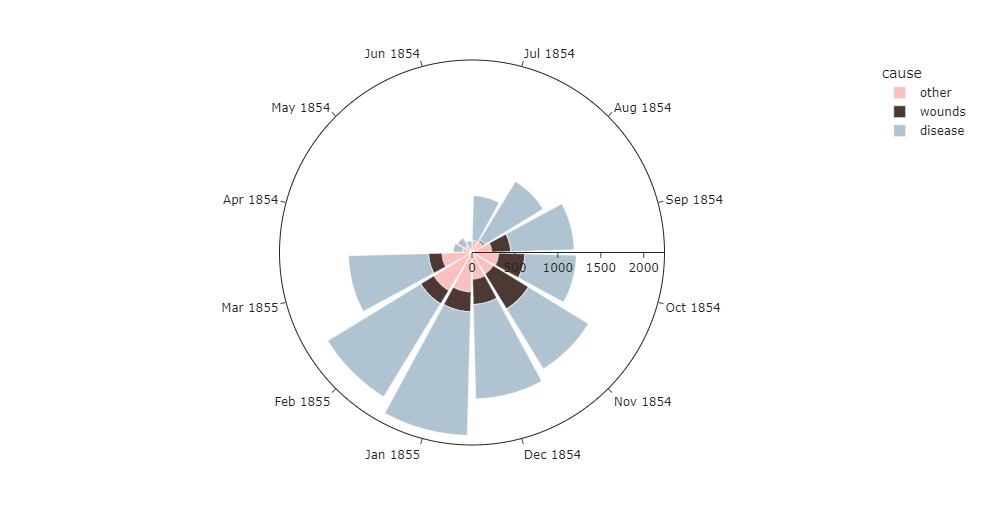
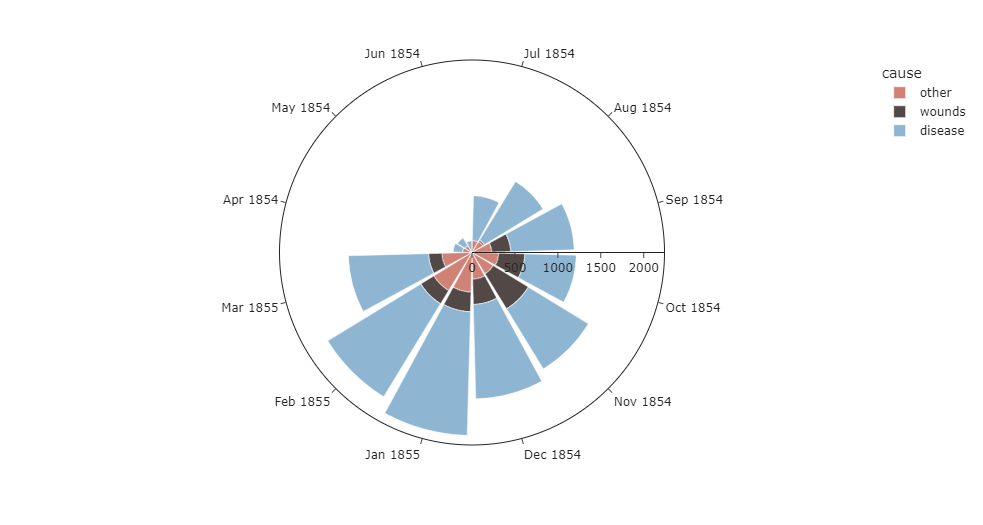
Adiciona versão final dos gráficos

Changed region(s): [[0.3357, 0.3352, 0.6104, 0.8229], [0.885, 0.1524, 0.9156, 0.1829]]

diff --git a/trabalho_2/line.html b/trabalho_2/line.html
@@ -7,11 +7,11 @@
   <script src="https://cdn.jsdelivr.net/npm/vega-embed@6"></script>
 </head>
 <body>
-<div class="vega-visualization" id="vega-visualization-3be45fe0f66b4fc5a7020cfad07e0c00"></div>
+<div class="vega-visualization" id="vega-visualization-edf4cb6f6e4c4c2fb420ed7a6b218c82"></div>
 <script type="text/javascript">
-  const spec = {"config": {"view": {"continuousWidth": 400, "continuousHeight": 300}}, "data": {"name": "data-3c35505f65207aa50905676c68c2233d"}, "mark": "line", "encoding": {"color": {"type": "nominal", "field": "cause"}, "x": {"type": "nominal", "field": "date"}, "y": {"type": "quantitative", "field": "deaths"}}, "height": 400, "title": "Gr\u00e1fico de Linha das Causas de Morte no ex\u00e9rcito do leste", "width": 800, "$schema": "https://vega.github.io/schema/vega-lite/v4.8.1.json", "datasets": {"data-3c35505f65207aa50905676c68c2233d": [{"date": "1854-04", "cause": "other", "deaths": 110}, {"date": "1854-05", "cause": "other", "deaths": 95}, {"date": "1854-06", "cause": "other", "deaths": 40}, {"date": "1854-07", "cause": "other", "deaths": 140}, {"date": "1854-08", "cause": "other", "deaths": 150}, {"date": "1854-09", "cause": "other", "deaths": 230}, {"date": "1854-10", "cause": "other", "deaths": 310}, {"date": "1854-11", "cause": "other", "deaths": 290}, {"date": "1854-12", "cause": "other", "deaths": 310}, {"date": "1855-01", "cause": "other", "deaths": 460}, {"date": "1855-02", "cause": "other", "deaths": 520}, {"date": "1855-03", "cause": "other", "deaths": 350}, {"date": "1855-04", "cause": "other", "deaths": 195}, {"date": "1855-05", "cause": "other", "deaths": 155}, {"date": "1855-06", "cause": "other", "deaths": 130}, {"date": "1855-07", "cause": "other", "deaths": 130}, {"date": "1855-08", "cause": "other", "deaths": 110}, {"date": "1855-09", "cause": "other", "deaths": 100}, {"date": "1855-10", "cause": "other", "deaths": 95}, {"date": "1855-11", "cause": "other", "deaths": 140}, {"date": "1855-12", "cause": "other", "deaths": 120}, {"date": "1856-01", "cause": "other", "deaths": 160}, {"date": "1856-02", "cause": "other", "deaths": 100}, {"date": "1856-03", "cause": "other", "deaths": 125}, {"date": "1854-04", "cause": "wounds", "deaths": 0}, {"date": "1854-05", "cause": "wounds", "deaths": 0}, {"date": "1854-06", "cause": "wounds", "deaths": 0}, {"date": "1854-07", "cause": "wounds", "deaths": 0}, {"date": "1854-08", "cause": "wounds", "deaths": 20}, {"date": "1854-09", "cause": "wounds", "deaths": 220}, {"date": "1854-10", "cause": "wounds", "deaths": 305}, {"date": "1854-11", "cause": "wounds", "deaths": 480}, {"date": "1854-12", "cause": "wounds", "deaths": 295}, {"date": "1855-01", "cause": "wounds", "deaths": 230}, {"date": "1855-02", "cause": "wounds", "deaths": 180}, {"date": "1855-03", "cause": "wounds", "deaths": 155}, {"date": "1855-04", "cause": "wounds", "deaths": 195}, {"date": "1855-05", "cause": "wounds", "deaths": 180}, {"date": "1855-06", "cause": "wounds", "deaths": 330}, {"date": "1855-07", "cause": "wounds", "deaths": 260}, {"date": "1855-08", "cause": "wounds", "deaths": 290}, {"date": "1855-09", "cause": "wounds", "deaths": 355}, {"date": "1855-10", "cause": "wounds", "deaths": 135}, {"date": "1855-11", "cause": "wounds", "deaths": 100}, {"date": "1855-12", "cause": "wounds", "deaths": 40}, {"date": "1856-01", "cause": "wounds", "deaths": 0}, {"date": "1856-02", "cause": "wounds", "deaths": 0}, {"date": "1856-03", "cause": "wounds", "deaths": 0}, {"date": "1854-04", "cause": "disease", "deaths": 110}, {"date": "1854-05", "cause": "disease", "deaths": 105}, {"date": "1854-06", "cause": "disease", "deaths": 95}, {"date": "1854-07", "cause": "disease", "deaths": 520}, {"date": "1854-08", "cause": "disease", "deaths": 800}, {"date": "1854-09", "cause": "disease", "deaths": 740}, {"date": "1854-10", "cause": "disease", "deaths": 600}, {"date": "1854-11", "cause": "disease", "deaths": 820}, {"date": "1854-12", "cause": "disease", "deaths": 1100}, {"date": "1855-01", "cause": "disease", "deaths": 1440}, {"date": "1855-02", "cause": "disease", "deaths": 1270}, {"date": "1855-03", "cause": "disease", "deaths": 935}, {"date": "1855-04", "cause": "disease", "deaths": 560}, {"date": "1855-05", "cause": "disease", "deaths": 550}, {"date": "1855-06", "cause": "disease", "deaths": 650}, {"date": "1855-07", "cause": "disease", "deaths": 430}, {"date": "1855-08", "cause": "disease", "deaths": 490}, {"date": "1855-09", "cause": "disease", "deaths": 290}, {"date": "1855-10", "cause": "disease", "deaths": 245}, {"date": "1855-11", "cause": "disease", "deaths": 325}, {"date": "1855-12", "cause": "disease", "deaths": 215}, {"date": "1856-01", "cause": "disease", "deaths": 160}, {"date": "1856-02", "cause": "disease", "deaths": 100}, {"date": "1856-03", "cause": "disease", "deaths": 90}]}};
+  const spec = {"config": {"view": {"continuousWidth": 400, "continuousHeight": 300}}, "data": {"name": "data-3c35505f65207aa50905676c68c2233d"}, "mark": "line", "encoding": {"color": {"type": "nominal", "field": "cause", "scale": {"domain": ["disease", "wounds", "other"], "range": ["#8eb5d1", "#524946", "#CF8275"]}}, "x": {"type": "nominal", "field": "date"}, "y": {"type": "quantitative", "field": "deaths"}}, "height": 400, "title": "Gr\u00e1fico de Linha das Causas de Morte no ex\u00e9rcito do leste", "width": 800, "$schema": "https://vega.github.io/schema/vega-lite/v4.8.1.json", "datasets": {"data-3c35505f65207aa50905676c68c2233d": [{"date": "1854-04", "cause": "other", "deaths": 110}, {"date": "1854-05", "cause": "other", "deaths": 95}, {"date": "1854-06", "cause": "other", "deaths": 40}, {"date": "1854-07", "cause": "other", "deaths": 140}, {"date": "1854-08", "cause": "other", "deaths": 150}, {"date": "1854-09", "cause": "other", "deaths": 230}, {"date": "1854-10", "cause": "other", "deaths": 310}, {"date": "1854-11", "cause": "other", "deaths": 290}, {"date": "1854-12", "cause": "other", "deaths": 310}, {"date": "1855-01", "cause": "other", "deaths": 460}, {"date": "1855-02", "cause": "other", "deaths": 520}, {"date": "1855-03", "cause": "other", "deaths": 350}, {"date": "1855-04", "cause": "other", "deaths": 195}, {"date": "1855-05", "cause": "other", "deaths": 155}, {"date": "1855-06", "cause": "other", "deaths": 130}, {"date": "1855-07", "cause": "other", "deaths": 130}, {"date": "1855-08", "cause": "other", "deaths": 110}, {"date": "1855-09", "cause": "other", "deaths": 100}, {"date": "1855-10", "cause": "other", "deaths": 95}, {"date": "1855-11", "cause": "other", "deaths": 140}, {"date": "1855-12", "cause": "other", "deaths": 120}, {"date": "1856-01", "cause": "other", "deaths": 160}, {"date": "1856-02", "cause": "other", "deaths": 100}, {"date": "1856-03", "cause": "other", "deaths": 125}, {"date": "1854-04", "cause": "wounds", "deaths": 0}, {"date": "1854-05", "cause": "wounds", "deaths": 0}, {"date": "1854-06", "cause": "wounds", "deaths": 0}, {"date": "1854-07", "cause": "wounds", "deaths": 0}, {"date": "1854-08", "cause": "wounds", "deaths": 20}, {"date": "1854-09", "cause": "wounds", "deaths": 220}, {"date": "1854-10", "cause": "wounds", "deaths": 305}, {"date": "1854-11", "cause": "wounds", "deaths": 480}, {"date": "1854-12", "cause": "wounds", "deaths": 295}, {"date": "1855-01", "cause": "wounds", "deaths": 230}, {"date": "1855-02", "cause": "wounds", "deaths": 180}, {"date": "1855-03", "cause": "wounds", "deaths": 155}, {"date": "1855-04", "cause": "wounds", "deaths": 195}, {"date": "1855-05", "cause": "wounds", "deaths": 180}, {"date": "1855-06", "cause": "wounds", "deaths": 330}, {"date": "1855-07", "cause": "wounds", "deaths": 260}, {"date": "1855-08", "cause": "wounds", "deaths": 290}, {"date": "1855-09", "cause": "wounds", "deaths": 355}, {"date": "1855-10", "cause": "wounds", "deaths": 135}, {"date": "1855-11", "cause": "wounds", "deaths": 100}, {"date": "1855-12", "cause": "wounds", "deaths": 40}, {"date": "1856-01", "cause": "wounds", "deaths": 0}, {"date": "1856-02", "cause": "wounds", "deaths": 0}, {"date": "1856-03", "cause": "wounds", "deaths": 0}, {"date": "1854-04", "cause": "disease", "deaths": 110}, {"date": "1854-05", "cause": "disease", "deaths": 105}, {"date": "1854-06", "cause": "disease", "deaths": 95}, {"date": "1854-07", "cause": "disease", "deaths": 520}, {"date": "1854-08", "cause": "disease", "deaths": 800}, {"date": "1854-09", "cause": "disease", "deaths": 740}, {"date": "1854-10", "cause": "disease", "deaths": 600}, {"date": "1854-11", "cause": "disease", "deaths": 820}, {"date": "1854-12", "cause": "disease", "deaths": 1100}, {"date": "1855-01", "cause": "disease", "deaths": 1440}, {"date": "1855-02", "cause": "disease", "deaths": 1270}, {"date": "1855-03", "cause": "disease", "deaths": 935}, {"date": "1855-04", "cause": "disease", "deaths": 560}, {"date": "1855-05", "cause": "disease", "deaths": 550}, {"date": "1855-06", "cause": "disease", "deaths": 650}, {"date": "1855-07", "cause": "disease", "deaths": 430}, {"date": "1855-08", "cause": "disease", "deaths": 490}, {"date": "1855-09", "cause": "disease", "deaths": 290}, {"date": "1855-10", "cause": "disease", "deaths": 245}, {"date": "1855-11", "cause": "disease", "deaths": 325}, {"date": "1855-12", "cause": "disease", "deaths": 215}, {"date": "1856-01", "cause": "disease", "deaths": 160}, {"date": "1856-02", "cause": "disease", "deaths": 100}, {"date": "1856-03", "cause": "disease", "deaths": 90}]}};
   const embedOpt = {};
-  vegaEmbed('#vega-visualization-3be45fe0f66b4fc5a7020cfad07e0c00', spec, embedOpt).catch(console.error);
+  vegaEmbed('#vega-visualization-edf4cb6f6e4c4c2fb420ed7a6b218c82', spec, embedOpt).catch(console.error);
 </script>
 </body>
 </html>

diff --git a/trabalho_2/bar2.html b/trabalho_2/bar2.html
@@ -7,11 +7,11 @@
   <script src="https://cdn.jsdelivr.net/npm/vega-embed@6"></script>
 </head>
 <body>
-<div class="vega-visualization" id="vega-visualization-96e1470db36544f4bc491340388881d6"></div>
+<div class="vega-visualization" id="vega-visualization-25783dd02baa461883bec9301b4c02af"></div>
 <script type="text/javascript">
-  const spec = {"config": {"view": {"continuousWidth": 400, "continuousHeight": 300}}, "data": {"name": "data-3c35505f65207aa50905676c68c2233d"}, "mark": "bar", "encoding": {"color": {"type": "nominal", "field": "cause"}, "column": {"type": "nominal", "field": "cause"}, "x": {"type": "nominal", "field": "date"}, "y": {"type": "quantitative", "field": "deaths"}}, "width": 250, "$schema": "https://vega.github.io/schema/vega-lite/v4.8.1.json", "datasets": {"data-3c35505f65207aa50905676c68c2233d": [{"date": "1854-04", "cause": "other", "deaths": 110}, {"date": "1854-05", "cause": "other", "deaths": 95}, {"date": "1854-06", "cause": "other", "deaths": 40}, {"date": "1854-07", "cause": "other", "deaths": 140}, {"date": "1854-08", "cause": "other", "deaths": 150}, {"date": "1854-09", "cause": "other", "deaths": 230}, {"date": "1854-10", "cause": "other", "deaths": 310}, {"date": "1854-11", "cause": "other", "deaths": 290}, {"date": "1854-12", "cause": "other", "deaths": 310}, {"date": "1855-01", "cause": "other", "deaths": 460}, {"date": "1855-02", "cause": "other", "deaths": 520}, {"date": "1855-03", "cause": "other", "deaths": 350}, {"date": "1855-04", "cause": "other", "deaths": 195}, {"date": "1855-05", "cause": "other", "deaths": 155}, {"date": "1855-06", "cause": "other", "deaths": 130}, {"date": "1855-07", "cause": "other", "deaths": 130}, {"date": "1855-08", "cause": "other", "deaths": 110}, {"date": "1855-09", "cause": "other", "deaths": 100}, {"date": "1855-10", "cause": "other", "deaths": 95}, {"date": "1855-11", "cause": "other", "deaths": 140}, {"date": "1855-12", "cause": "other", "deaths": 120}, {"date": "1856-01", "cause": "other", "deaths": 160}, {"date": "1856-02", "cause": "other", "deaths": 100}, {"date": "1856-03", "cause": "other", "deaths": 125}, {"date": "1854-04", "cause": "wounds", "deaths": 0}, {"date": "1854-05", "cause": "wounds", "deaths": 0}, {"date": "1854-06", "cause": "wounds", "deaths": 0}, {"date": "1854-07", "cause": "wounds", "deaths": 0}, {"date": "1854-08", "cause": "wounds", "deaths": 20}, {"date": "1854-09", "cause": "wounds", "deaths": 220}, {"date": "1854-10", "cause": "wounds", "deaths": 305}, {"date": "1854-11", "cause": "wounds", "deaths": 480}, {"date": "1854-12", "cause": "wounds", "deaths": 295}, {"date": "1855-01", "cause": "wounds", "deaths": 230}, {"date": "1855-02", "cause": "wounds", "deaths": 180}, {"date": "1855-03", "cause": "wounds", "deaths": 155}, {"date": "1855-04", "cause": "wounds", "deaths": 195}, {"date": "1855-05", "cause": "wounds", "deaths": 180}, {"date": "1855-06", "cause": "wounds", "deaths": 330}, {"date": "1855-07", "cause": "wounds", "deaths": 260}, {"date": "1855-08", "cause": "wounds", "deaths": 290}, {"date": "1855-09", "cause": "wounds", "deaths": 355}, {"date": "1855-10", "cause": "wounds", "deaths": 135}, {"date": "1855-11", "cause": "wounds", "deaths": 100}, {"date": "1855-12", "cause": "wounds", "deaths": 40}, {"date": "1856-01", "cause": "wounds", "deaths": 0}, {"date": "1856-02", "cause": "wounds", "deaths": 0}, {"date": "1856-03", "cause": "wounds", "deaths": 0}, {"date": "1854-04", "cause": "disease", "deaths": 110}, {"date": "1854-05", "cause": "disease", "deaths": 105}, {"date": "1854-06", "cause": "disease", "deaths": 95}, {"date": "1854-07", "cause": "disease", "deaths": 520}, {"date": "1854-08", "cause": "disease", "deaths": 800}, {"date": "1854-09", "cause": "disease", "deaths": 740}, {"date": "1854-10", "cause": "disease", "deaths": 600}, {"date": "1854-11", "cause": "disease", "deaths": 820}, {"date": "1854-12", "cause": "disease", "deaths": 1100}, {"date": "1855-01", "cause": "disease", "deaths": 1440}, {"date": "1855-02", "cause": "disease", "deaths": 1270}, {"date": "1855-03", "cause": "disease", "deaths": 935}, {"date": "1855-04", "cause": "disease", "deaths": 560}, {"date": "1855-05", "cause": "disease", "deaths": 550}, {"date": "1855-06", "cause": "disease", "deaths": 650}, {"date": "1855-07", "cause": "disease", "deaths": 430}, {"date": "1855-08", "cause": "disease", "deaths": 490}, {"date": "1855-09", "cause": "disease", "deaths": 290}, {"date": "1855-10", "cause": "disease", "deaths": 245}, {"date": "1855-11", "cause": "disease", "deaths": 325}, {"date": "1855-12", "cause": "disease", "deaths": 215}, {"date": "1856-01", "cause": "disease", "deaths": 160}, {"date": "1856-02", "cause": "disease", "deaths": 100}, {"date": "1856-03", "cause": "disease", "deaths": 90}]}};
+  const spec = {"config": {"view": {"continuousWidth": 400, "continuousHeight": 300}}, "data": {"name": "data-3c35505f65207aa50905676c68c2233d"}, "mark": "bar", "encoding": {"color": {"type": "nominal", "field": "cause", "scale": {"domain": ["disease", "wounds", "other"], "range": ["#8eb5d1", "#524946", "#CF8275"]}}, "column": {"type": "nominal", "field": "cause"}, "x": {"type": "nominal", "field": "date"}, "y": {"type": "quantitative", "field": "deaths"}}, "title": "Gr\u00e1fico de Barras das Causas de Morte no ex\u00e9rcito do leste (2)", "width": 250, "$schema": "https://vega.github.io/schema/vega-lite/v4.8.1.json", "datasets": {"data-3c35505f65207aa50905676c68c2233d": [{"date": "1854-04", "cause": "other", "deaths": 110}, {"date": "1854-05", "cause": "other", "deaths": 95}, {"date": "1854-06", "cause": "other", "deaths": 40}, {"date": "1854-07", "cause": "other", "deaths": 140}, {"date": "1854-08", "cause": "other", "deaths": 150}, {"date": "1854-09", "cause": "other", "deaths": 230}, {"date": "1854-10", "cause": "other", "deaths": 310}, {"date": "1854-11", "cause": "other", "deaths": 290}, {"date": "1854-12", "cause": "other", "deaths": 310}, {"date": "1855-01", "cause": "other", "deaths": 460}, {"date": "1855-02", "cause": "other", "deaths": 520}, {"date": "1855-03", "cause": "other", "deaths": 350}, {"date": "1855-04", "cause": "other", "deaths": 195}, {"date": "1855-05", "cause": "other", "deaths": 155}, {"date": "1855-06", "cause": "other", "deaths": 130}, {"date": "1855-07", "cause": "other", "deaths": 130}, {"date": "1855-08", "cause": "other", "deaths": 110}, {"date": "1855-09", "cause": "other", "deaths": 100}, {"date": "1855-10", "cause": "other", "deaths": 95}, {"date": "1855-11", "cause": "other", "deaths": 140}, {"date": "1855-12", "cause": "other", "deaths": 120}, {"date": "1856-01", "cause": "other", "deaths": 160}, {"date": "1856-02", "cause": "other", "deaths": 100}, {"date": "1856-03", "cause": "other", "deaths": 125}, {"date": "1854-04", "cause": "wounds", "deaths": 0}, {"date": "1854-05", "cause": "wounds", "deaths": 0}, {"date": "1854-06", "cause": "wounds", "deaths": 0}, {"date": "1854-07", "cause": "wounds", "deaths": 0}, {"date": "1854-08", "cause": "wounds", "deaths": 20}, {"date": "1854-09", "cause": "wounds", "deaths": 220}, {"date": "1854-10", "cause": "wounds", "deaths": 305}, {"date": "1854-11", "cause": "wounds", "deaths": 480}, {"date": "1854-12", "cause": "wounds", "deaths": 295}, {"date": "1855-01", "cause": "wounds", "deaths": 230}, {"date": "1855-02", "cause": "wounds", "deaths": 180}, {"date": "1855-03", "cause": "wounds", "deaths": 155}, {"date": "1855-04", "cause": "wounds", "deaths": 195}, {"date": "1855-05", "cause": "wounds", "deaths": 180}, {"date": "1855-06", "cause": "wounds", "deaths": 330}, {"date": "1855-07", "cause": "wounds", "deaths": 260}, {"date": "1855-08", "cause": "wounds", "deaths": 290}, {"date": "1855-09", "cause": "wounds", "deaths": 355}, {"date": "1855-10", "cause": "wounds", "deaths": 135}, {"date": "1855-11", "cause": "wounds", "deaths": 100}, {"date": "1855-12", "cause": "wounds", "deaths": 40}, {"date": "1856-01", "cause": "wounds", "deaths": 0}, {"date": "1856-02", "cause": "wounds", "deaths": 0}, {"date": "1856-03", "cause": "wounds", "deaths": 0}, {"date": "1854-04", "cause": "disease", "deaths": 110}, {"date": "1854-05", "cause": "disease", "deaths": 105}, {"date": "1854-06", "cause": "disease", "deaths": 95}, {"date": "1854-07", "cause": "disease", "deaths": 520}, {"date": "1854-08", "cause": "disease", "deaths": 800}, {"date": "1854-09", "cause": "disease", "deaths": 740}, {"date": "1854-10", "cause": "disease", "deaths": 600}, {"date": "1854-11", "cause": "disease", "deaths": 820}, {"date": "1854-12", "cause": "disease", "deaths": 1100}, {"date": "1855-01", "cause": "disease", "deaths": 1440}, {"date": "1855-02", "cause": "disease", "deaths": 1270}, {"date": "1855-03", "cause": "disease", "deaths": 935}, {"date": "1855-04", "cause": "disease", "deaths": 560}, {"date": "1855-05", "cause": "disease", "deaths": 550}, {"date": "1855-06", "cause": "disease", "deaths": 650}, {"date": "1855-07", "cause": "disease", "deaths": 430}, {"date": "1855-08", "cause": "disease", "deaths": 490}, {"date": "1855-09", "cause": "disease", "deaths": 290}, {"date": "1855-10", "cause": "disease", "deaths": 245}, {"date": "1855-11", "cause": "disease", "deaths": 325}, {"date": "1855-12", "cause": "disease", "deaths": 215}, {"date": "1856-01", "cause": "disease", "deaths": 160}, {"date": "1856-02", "cause": "disease", "deaths": 100}, {"date": "1856-03", "cause": "disease", "deaths": 90}]}};
   const embedOpt = {};
-  vegaEmbed('#vega-visualization-96e1470db36544f4bc491340388881d6', spec, embedOpt).catch(console.error);
+  vegaEmbed('#vega-visualization-25783dd02baa461883bec9301b4c02af', spec, embedOpt).catch(console.error);
 </script>
 </body>
 </html>

diff --git a/trabalho_2/bar1.html b/trabalho_2/bar1.html
@@ -14,7 +14,7 @@
   <div id="vis"></div>
   <script>
     (function(vegaEmbed) {
-      var spec = {"config": {"view": {"continuousWidth": 400, "continuousHeight": 300}}, "data": {"name": "data-3c35505f65207aa50905676c68c2233d"}, "mark": "bar", "encoding": {"color": {"type": "nominal", "field": "cause"}, "x": {"type": "nominal", "field": "date"}, "y": {"type": "quantitative", "field": "deaths"}}, "height": 400, "title": "Gr\u00e1fico de Barras das Causas de Morte no ex\u00e9rcito do leste", "width": 800, "$schema": "https://vega.github.io/schema/vega-lite/v4.8.1.json", "datasets": {"data-3c35505f65207aa50905676c68c2233d": [{"date": "1854-04", "cause": "other", "deaths": 110}, {"date": "1854-05", "cause": "other", "deaths": 95}, {"date": "1854-06", "cause": "other", "deaths": 40}, {"date": "1854-07", "cause": "other", "deaths": 140}, {"date": "1854-08", "cause": "other", "deaths": 150}, {"date": "1854-09", "cause": "other", "deaths": 230}, {"date": "1854-10", "cause": "other", "deaths": 310}, {"date": "1854-11", "cause": "other", "deaths": 290}, {"date": "1854-12", "cause": "other", "deaths": 310}, {"date": "1855-01", "cause": "other", "deaths": 460}, {"date": "1855-02", "cause": "other", "deaths": 520}, {"date": "1855-03", "cause": "other", "deaths": 350}, {"date": "1855-04", "cause": "other", "deaths": 195}, {"date": "1855-05", "cause": "other", "deaths": 155}, {"date": "1855-06", "cause": "other", "deaths": 130}, {"date": "1855-07", "cause": "other", "deaths": 130}, {"date": "1855-08", "cause": "other", "deaths": 110}, {"date": "1855-09", "cause": "other", "deaths": 100}, {"date": "1855-10", "cause": "other", "deaths": 95}, {"date": "1855-11", "cause": "other", "deaths": 140}, {"date": "1855-12", "cause": "other", "deaths": 120}, {"date": "1856-01", "cause": "other", "deaths": 160}, {"date": "1856-02", "cause": "other", "deaths": 100}, {"date": "1856-03", "cause": "other", "deaths": 125}, {"date": "1854-04", "cause": "wounds", "deaths": 0}, {"date": "1854-05", "cause": "wounds", "deaths": 0}, {"date": "1854-06", "cause": "wounds", "deaths": 0}, {"date": "1854-07", "cause": "wounds", "deaths": 0}, {"date": "1854-08", "cause": "wounds", "deaths": 20}, {"date": "1854-09", "cause": "wounds", "deaths": 220}, {"date": "1854-10", "cause": "wounds", "deaths": 305}, {"date": "1854-11", "cause": "wounds", "deaths": 480}, {"date": "1854-12", "cause": "wounds", "deaths": 295}, {"date": "1855-01", "cause": "wounds", "deaths": 230}, {"date": "1855-02", "cause": "wounds", "deaths": 180}, {"date": "1855-03", "cause": "wounds", "deaths": 155}, {"date": "1855-04", "cause": "wounds", "deaths": 195}, {"date": "1855-05", "cause": "wounds", "deaths": 180}, {"date": "1855-06", "cause": "wounds", "deaths": 330}, {"date": "1855-07", "cause": "wounds", "deaths": 260}, {"date": "1855-08", "cause": "wounds", "deaths": 290}, {"date": "1855-09", "cause": "wounds", "deaths": 355}, {"date": "1855-10", "cause": "wounds", "deaths": 135}, {"date": "1855-11", "cause": "wounds", "deaths": 100}, {"date": "1855-12", "cause": "wounds", "deaths": 40}, {"date": "1856-01", "cause": "wounds", "deaths": 0}, {"date": "1856-02", "cause": "wounds", "deaths": 0}, {"date": "1856-03", "cause": "wounds", "deaths": 0}, {"date": "1854-04", "cause": "disease", "deaths": 110}, {"date": "1854-05", "cause": "disease", "deaths": 105}, {"date": "1854-06", "cause": "disease", "deaths": 95}, {"date": "1854-07", "cause": "disease", "deaths": 520}, {"date": "1854-08", "cause": "disease", "deaths": 800}, {"date": "1854-09", "cause": "disease", "deaths": 740}, {"date": "1854-10", "cause": "disease", "deaths": 600}, {"date": "1854-11", "cause": "disease", "deaths": 820}, {"date": "1854-12", "cause": "disease", "deaths": 1100}, {"date": "1855-01", "cause": "disease", "deaths": 1440}, {"date": "1855-02", "cause": "disease", "deaths": 1270}, {"date": "1855-03", "cause": "disease", "deaths": 935}, {"date": "1855-04", "cause": "disease", "deaths": 560}, {"date": "1855-05", "cause": "disease", "deaths": 550}, {"date": "1855-06", "cause": "disease", "deaths": 650}, {"date": "1855-07", "cause": "disease", "deaths": 430}, {"date": "1855-08", "cause": "disease", "deaths": 490}, {"date": "1855-09", "cause": "disease", "deaths": 290}, {"date": "1855-10", "cause": "disease", "deaths": 245}, {"date": "1855-11", "cause": "disease", "deaths": 325}, {"date": "1855-12", "cause": "disease", "deaths": 215}, {"date": "1856-01", "cause": "disease", "deaths": 160}, {"date": "1856-02", "cause": "disease", "deaths": 100}, {"date": "1856-03", "cause": "disease", "deaths": 90}]}};
+      var spec = {"config": {"view": {"continuousWidth": 400, "continuousHeight": 300}}, "data": {"name": "data-3c35505f65207aa50905676c68c2233d"}, "mark": "bar", "encoding": {"color": {"type": "nominal", "field": "cause", "scale": {"domain": ["disease", "wounds", "other"], "range": ["#8eb5d1", "#524946", "#CF8275"]}}, "x": {"type": "nominal", "field": "date"}, "y": {"type": "quantitative", "field": "deaths"}}, "height": 400, "title": "Gr\u00e1fico de Barras das Causas de Morte no ex\u00e9rcito do leste (1)", "width": 800, "$schema": "https://vega.github.io/schema/vega-lite/v4.8.1.json", "datasets": {"data-3c35505f65207aa50905676c68c2233d": [{"date": "1854-04", "cause": "other", "deaths": 110}, {"date": "1854-05", "cause": "other", "deaths": 95}, {"date": "1854-06", "cause": "other", "deaths": 40}, {"date": "1854-07", "cause": "other", "deaths": 140}, {"date": "1854-08", "cause": "other", "deaths": 150}, {"date": "1854-09", "cause": "other", "deaths": 230}, {"date": "1854-10", "cause": "other", "deaths": 310}, {"date": "1854-11", "cause": "other", "deaths": 290}, {"date": "1854-12", "cause": "other", "deaths": 310}, {"date": "1855-01", "cause": "other", "deaths": 460}, {"date": "1855-02", "cause": "other", "deaths": 520}, {"date": "1855-03", "cause": "other", "deaths": 350}, {"date": "1855-04", "cause": "other", "deaths": 195}, {"date": "1855-05", "cause": "other", "deaths": 155}, {"date": "1855-06", "cause": "other", "deaths": 130}, {"date": "1855-07", "cause": "other", "deaths": 130}, {"date": "1855-08", "cause": "other", "deaths": 110}, {"date": "1855-09", "cause": "other", "deaths": 100}, {"date": "1855-10", "cause": "other", "deaths": 95}, {"date": "1855-11", "cause": "other", "deaths": 140}, {"date": "1855-12", "cause": "other", "deaths": 120}, {"date": "1856-01", "cause": "other", "deaths": 160}, {"date": "1856-02", "cause": "other", "deaths": 100}, {"date": "1856-03", "cause": "other", "deaths": 125}, {"date": "1854-04", "cause": "wounds", "deaths": 0}, {"date": "1854-05", "cause": "wounds", "deaths": 0}, {"date": "1854-06", "cause": "wounds", "deaths": 0}, {"date": "1854-07", "cause": "wounds", "deaths": 0}, {"date": "1854-08", "cause": "wounds", "deaths": 20}, {"date": "1854-09", "cause": "wounds", "deaths": 220}, {"date": "1854-10", "cause": "wounds", "deaths": 305}, {"date": "1854-11", "cause": "wounds", "deaths": 480}, {"date": "1854-12", "cause": "wounds", "deaths": 295}, {"date": "1855-01", "cause": "wounds", "deaths": 230}, {"date": "1855-02", "cause": "wounds", "deaths": 180}, {"date": "1855-03", "cause": "wounds", "deaths": 155}, {"date": "1855-04", "cause": "wounds", "deaths": 195}, {"date": "1855-05", "cause": "wounds", "deaths": 180}, {"date": "1855-06", "cause": "wounds", "deaths": 330}, {"date": "1855-07", "cause": "wounds", "deaths": 260}, {"date": "1855-08", "cause": "wounds", "deaths": 290}, {"date": "1855-09", "cause": "wounds", "deaths": 355}, {"date": "1855-10", "cause": "wounds", "deaths": 135}, {"date": "1855-11", "cause": "wounds", "deaths": 100}, {"date": "1855-12", "cause": "wounds", "deaths": 40}, {"date": "1856-01", "cause": "wounds", "deaths": 0}, {"date": "1856-02", "cause": "wounds", "deaths": 0}, {"date": "1856-03", "cause": "wounds", "deaths": 0}, {"date": "1854-04", "cause": "disease", "deaths": 110}, {"date": "1854-05", "cause": "disease", "deaths": 105}, {"date": "1854-06", "cause": "disease", "deaths": 95}, {"date": "1854-07", "cause": "disease", "deaths": 520}, {"date": "1854-08", "cause": "disease", "deaths": 800}, {"date": "1854-09", "cause": "disease", "deaths": 740}, {"date": "1854-10", "cause": "disease", "deaths": 600}, {"date": "1854-11", "cause": "disease", "deaths": 820}, {"date": "1854-12", "cause": "disease", "deaths": 1100}, {"date": "1855-01", "cause": "disease", "deaths": 1440}, {"date": "1855-02", "cause": "disease", "deaths": 1270}, {"date": "1855-03", "cause": "disease", "deaths": 935}, {"date": "1855-04", "cause": "disease", "deaths": 560}, {"date": "1855-05", "cause": "disease", "deaths": 550}, {"date": "1855-06", "cause": "disease", "deaths": 650}, {"date": "1855-07", "cause": "disease", "deaths": 430}, {"date": "1855-08", "cause": "disease", "deaths": 490}, {"date": "1855-09", "cause": "disease", "deaths": 290}, {"date": "1855-10", "cause": "disease", "deaths": 245}, {"date": "1855-11", "cause": "disease", "deaths": 325}, {"date": "1855-12", "cause": "disease", "deaths": 215}, {"date": "1856-01", "cause": "disease", "deaths": 160}, {"date": "1856-02", "cause": "disease", "deaths": 100}, {"date": "1856-03", "cause": "disease", "deaths": 90}]}};
       var embedOpt = {"mode": "vega-lite"};
 
       function showError(el, error){

diff --git a/trabalho_2/bar3.html b/trabalho_2/bar3.html
@@ -1,0 +1,17 @@
+
+<!DOCTYPE html>
+<html>
+<head>
+  <script src="https://cdn.jsdelivr.net/npm/vega@5"></script>
+  <script src="https://cdn.jsdelivr.net/npm/vega-lite@4.8.1"></script>
+  <script src="https://cdn.jsdelivr.net/npm/vega-embed@6"></script>
+</head>
+<body>
+<div class="vega-visualization" id="vega-visualization-1bd887cb0dbb4ffcb16c4a11df4109c8"></div>
+<script type="text/javascript">
+  const spec = {"config": {"view": {"continuousWidth": 400, "continuousHeight": 300, "strokeWidth": 0}, "axis": {"grid": false}}, "data": {"name": "data-3c35505f65207aa50905676c68c2233d"}, "facet": {"type": "nominal", "field": "date"}, "spec": {"mark": {"type": "bar", "width": 20}, "encoding": {"color": {"type": "nominal", "field": "cause", "scale": {"domain": ["disease", "wounds", "other"], "range": ["#8eb5d1", "#524946", "#CF8275"]}}, "x": {"type": "nominal", "axis": {"grid": false, "labels": false, "title": null}, "field": "cause"}, "y": {"type": "quantitative", "field": "deaths"}}}, "spacing": 0, "title": "Gr\u00e1fico de Barras das Causas de Morte no ex\u00e9rcito do leste (3)", "$schema": "https://vega.github.io/schema/vega-lite/v4.8.1.json", "datasets": {"data-3c35505f65207aa50905676c68c2233d": [{"date": "1854-04", "cause": "other", "deaths": 110}, {"date": "1854-05", "cause": "other", "deaths": 95}, {"date": "1854-06", "cause": "other", "deaths": 40}, {"date": "1854-07", "cause": "other", "deaths": 140}, {"date": "1854-08", "cause": "other", "deaths": 150}, {"date": "1854-09", "cause": "other", "deaths": 230}, {"date": "1854-10", "cause": "other", "deaths": 310}, {"date": "1854-11", "cause": "other", "deaths": 290}, {"date": "1854-12", "cause": "other", "deaths": 310}, {"date": "1855-01", "cause": "other", "deaths": 460}, {"date": "1855-02", "cause": "other", "deaths": 520}, {"date": "1855-03", "cause": "other", "deaths": 350}, {"date": "1855-04", "cause": "other", "deaths": 195}, {"date": "1855-05", "cause": "other", "deaths": 155}, {"date": "1855-06", "cause": "other", "deaths": 130}, {"date": "1855-07", "cause": "other", "deaths": 130}, {"date": "1855-08", "cause": "other", "deaths": 110}, {"date": "1855-09", "cause": "other", "deaths": 100}, {"date": "1855-10", "cause": "other", "deaths": 95}, {"date": "1855-11", "cause": "other", "deaths": 140}, {"date": "1855-12", "cause": "other", "deaths": 120}, {"date": "1856-01", "cause": "other", "deaths": 160}, {"date": "1856-02", "cause": "other", "deaths": 100}, {"date": "1856-03", "cause": "other", "deaths": 125}, {"date": "1854-04", "cause": "wounds", "deaths": 0}, {"date": "1854-05", "cause": "wounds", "deaths": 0}, {"date": "1854-06", "cause": "wounds", "deaths": 0}, {"date": "1854-07", "cause": "wounds", "deaths": 0}, {"date": "1854-08", "cause": "wounds", "deaths": 20}, {"date": "1854-09", "cause": "wounds", "deaths": 220}, {"date": "1854-10", "cause": "wounds", "deaths": 305}, {"date": "1854-11", "cause": "wounds", "deaths": 480}, {"date": "1854-12", "cause": "wounds", "deaths": 295}, {"date": "1855-01", "cause": "wounds", "deaths": 230}, {"date": "1855-02", "cause": "wounds", "deaths": 180}, {"date": "1855-03", "cause": "wounds", "deaths": 155}, {"date": "1855-04", "cause": "wounds", "deaths": 195}, {"date": "1855-05", "cause": "wounds", "deaths": 180}, {"date": "1855-06", "cause": "wounds", "deaths": 330}, {"date": "1855-07", "cause": "wounds", "deaths": 260}, {"date": "1855-08", "cause": "wounds", "deaths": 290}, {"date": "1855-09", "cause": "wounds", "deaths": 355}, {"date": "1855-10", "cause": "wounds", "deaths": 135}, {"date": "1855-11", "cause": "wounds", "deaths": 100}, {"date": "1855-12", "cause": "wounds", "deaths": 40}, {"date": "1856-01", "cause": "wounds", "deaths": 0}, {"date": "1856-02", "cause": "wounds", "deaths": 0}, {"date": "1856-03", "cause": "wounds", "deaths": 0}, {"date": "1854-04", "cause": "disease", "deaths": 110}, {"date": "1854-05", "cause": "disease", "deaths": 105}, {"date": "1854-06", "cause": "disease", "deaths": 95}, {"date": "1854-07", "cause": "disease", "deaths": 520}, {"date": "1854-08", "cause": "disease", "deaths": 800}, {"date": "1854-09", "cause": "disease", "deaths": 740}, {"date": "1854-10", "cause": "disease", "deaths": 600}, {"date": "1854-11", "cause": "disease", "deaths": 820}, {"date": "1854-12", "cause": "disease", "deaths": 1100}, {"date": "1855-01", "cause": "disease", "deaths": 1440}, {"date": "1855-02", "cause": "disease", "deaths": 1270}, {"date": "1855-03", "cause": "disease", "deaths": 935}, {"date": "1855-04", "cause": "disease", "deaths": 560}, {"date": "1855-05", "cause": "disease", "deaths": 550}, {"date": "1855-06", "cause": "disease", "deaths": 650}, {"date": "1855-07", "cause": "disease", "deaths": 430}, {"date": "1855-08", "cause": "disease", "deaths": 490}, {"date": "1855-09", "cause": "disease", "deaths": 290}, {"date": "1855-10", "cause": "disease", "deaths": 245}, {"date": "1855-11", "cause": "disease", "deaths": 325}, {"date": "1855-12", "cause": "disease", "deaths": 215}, {"date": "1856-01", "cause": "disease", "deaths": 160}, {"date": "1856-02", "cause": "disease", "deaths": 100}, {"date": "1856-03", "cause": "disease", "deaths": 90}]}};
+  const embedOpt = {};
+  vegaEmbed('#vega-visualization-1bd887cb0dbb4ffcb16c4a11df4109c8', spec, embedOpt).catch(console.error);
+</script>
+</body>
+</html>
